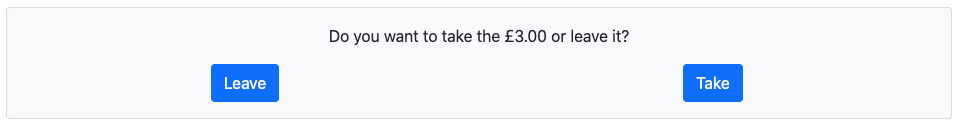
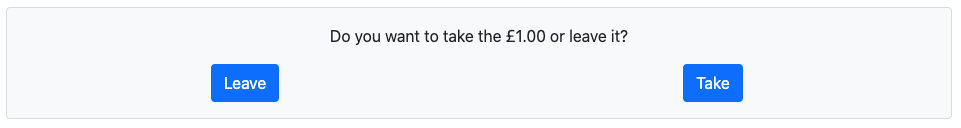
made different image per condition for instructions

diff --git a/introduction/InstruDictator.html b/introduction/InstruDictator.html
@@ -67,7 +67,14 @@
             </li>
         </ul>
     </p>
+
+    why not work?
+    {{ if player.condition == "high-high" }}
     <img src="{{ static 'introduction/decision_high.png' }}"/>
+    {{ else }}
+    <img src="{{ static 'introduction/decision_low.png' }}"/>
+    {{ endif }}
+
 </div>
 
 <p></p>
